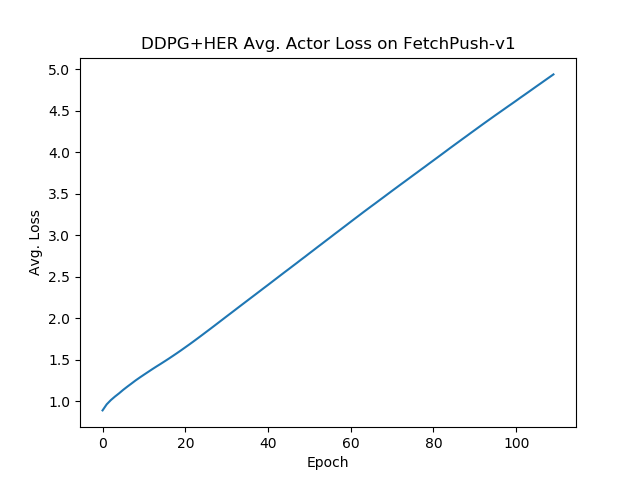
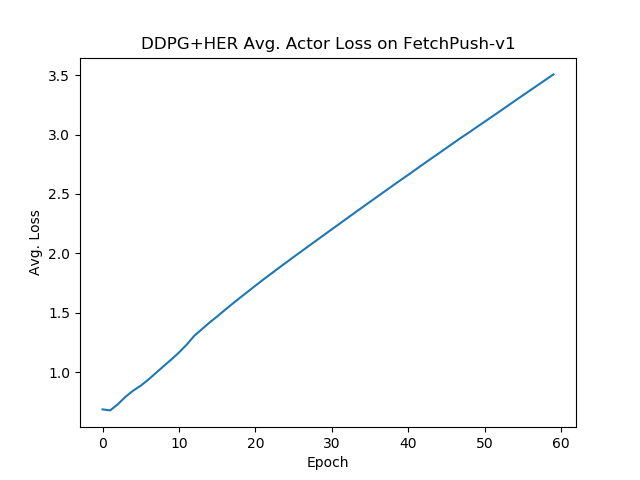
adding more results from ddpg_her

diff --git a/ddpg_her.swift b/ddpg_her.swift
@@ -154,14 +154,16 @@ class HERSampler {
       transitions[key] = transition_sample
     }
     let batch_uniform  = np.random.uniform(size: PythonObject(batch_size))
-    var her_indexes_sf: [Int] = []
-    for i in 0..<batch_size{
-      let val = batch_uniform[i]
-      if Float(val)! < self.future_p {
-        her_indexes_sf.append(i)
-      }
-    }
-    let her_indexes = np.array(her_indexes_sf)
+    let batch_uniform_filter: PythonObject = batch_uniform < self.future_p
+    let her_indexes = np.where(batch_uniform_filter)
+    // var her_indexes_sf: [Int] = []
+    // for i in 0..<batch_size{
+    //   let val = batch_uniform[i]
+    //   if Float(val)! < self.future_p {
+    //     her_indexes_sf.append(i)
+    //   }
+    // }
+    // let her_indexes = np.array(her_indexes_sf)
     let future_offset = (np.random.uniform(size: batch_size) * (timesteps - t_samples)).astype(np.int32)
     let future_t = (t_samples + 1 + future_offset)[her_indexes]
     let ag_numpy = episode_batch["achieved_goal"]!.makeNumpyArray()
@@ -451,8 +453,8 @@ class ActorCritic {
     actionSize: Int,
     goalSize: Int,
     maxAction: Tensor<Float>,
-    critic_lr: Float = 0.0001,
-    actor_lr: Float = 0.0001,
+    critic_lr: Float = 0.0009,
+    actor_lr: Float = 0.0009,
     gamma: Float = 0.99) {
       self.actor_network = actor
       self.critic_network = critic
@@ -690,7 +692,7 @@ func ddpg_her(actor_critic: ActorCritic, env: MultiGoalEnvironmentWrapper,
     for epoch in 0..<epochs {
       print("\nEPOCH: \(epoch)")
       if epoch == 0 || epoch == 25 || epoch == 50 || epoch == 75 {
-        let filename: String = "results/fetch_push_ddpg_her_3_ep" + String(epoch) + ".npy"
+        let filename: String = "results/fetch_push_ddpg_her_4_ep" + String(epoch) + ".npy"
         test_agent(agent: actor_critic, env: env, num_steps: 60, filename: filename)
       }
       var actor_losses: [Float] = []
@@ -795,10 +797,10 @@ print(env.max_timesteps)
 env.set_environment_seed(seed: 1001)
 let max_action: Tensor<Float> = Tensor<Float>(env.max_action_val)
 print(max_action)
-let actor_net: ActorNetwork = ActorNetwork(observationSize: env.state_size + env.goal_size, actionSize: env.action_size, hiddenLayerSizes: [256, 256, 256], maximum_action:max_action)
-let actor_target: ActorNetwork = ActorNetwork(observationSize: env.state_size + env.goal_size, actionSize: env.action_size, hiddenLayerSizes: [256, 256, 256], maximum_action:max_action)
-let critic_net: CriticNetwork = CriticNetwork(state_size: env.state_size + env.goal_size,  action_size: env.action_size, hiddenLayerSizes: [256, 256, 256], outDimension: 1)
-let critic_target: CriticNetwork = CriticNetwork(state_size: env.state_size + env.goal_size, action_size: env.action_size, hiddenLayerSizes: [256, 256, 256], outDimension: 1)
+let actor_net: ActorNetwork = ActorNetwork(observationSize: env.state_size + env.goal_size, actionSize: env.action_size, hiddenLayerSizes: [400, 300, 200], maximum_action:max_action)
+let actor_target: ActorNetwork = ActorNetwork(observationSize: env.state_size + env.goal_size, actionSize: env.action_size, hiddenLayerSizes: [400, 300, 200], maximum_action:max_action)
+let critic_net: CriticNetwork = CriticNetwork(state_size: env.state_size + env.goal_size,  action_size: env.action_size, hiddenLayerSizes: [400, 300, 200], outDimension: 1)
+let critic_target: CriticNetwork = CriticNetwork(state_size: env.state_size + env.goal_size, action_size: env.action_size, hiddenLayerSizes: [400, 300, 200], outDimension: 1)
 let replay_buffer: HERReplayBuffer = HERReplayBuffer(max_timesteps: env.max_timesteps, max_buffer_size: 9000, state_size: env.state_size, goal_size: env.goal_size, action_size: env.action_size)
 
 
@@ -815,7 +817,7 @@ let(actor_losses, critic_losses, success_rates) = ddpg_her(actor_critic: actor_c
                                                            env: env,
                                                            epochs: 60,
                                                            episodes: 50,
-                                                           rollouts: 3,
+                                                           rollouts: 4,
                                                            stepsPerEpisode: env.max_timesteps,
                                                            update_steps: 50,
                                                            batchSize: 128,
@@ -826,27 +828,27 @@ plt.plot(success_rates)
 plt.title("DDPG+HER Success Rate on FetchPush-v1")
 plt.xlabel("Epoch")
 plt.ylabel("Eval. Success Rate")
-plt.savefig("results/rewards/fetch_push_success_ddpg_her_3.png")
+plt.savefig("results/rewards/fetch_push_success_ddpg_her_4.png")
 plt.clf()
 let success_rates_np = np.array(success_rates)
-np.save("results/rewards/fetch_push_success_ddpg_her.npy", success_rates_np)
+np.save("results/rewards/fetch_push_success_ddpg_her_4.npy", success_rates_np)
 
 
 plt.plot(actor_losses)
 plt.title("DDPG+HER Avg. Actor Loss on FetchPush-v1")
 plt.xlabel("Epoch")
 plt.ylabel("Avg. Loss")
-plt.savefig("results/losses/fetch_push_actor_loss_ddpg_her_3.png")
+plt.savefig("results/losses/fetch_push_actor_loss_ddpg_her_4.png")
 plt.clf()
 
 plt.plot(critic_losses)
 plt.title("DDPG+HER Avg. Critic Loss on FetchPush-v1")
 plt.xlabel("Epoch")
 plt.ylabel("Avg. Loss")
-plt.savefig("results/losses/fetch_push_critic_loss_ddpg_her_3.png")
+plt.savefig("results/losses/fetch_push_critic_loss_ddpg_her_4.png")
 plt.clf()
 
-test_agent(agent: actor_critic, env: env, num_steps: 60, filename: "results/fetch_push_ddpg_her_3.npy")
+test_agent(agent: actor_critic, env: env, num_steps: 60, filename: "results/fetch_push_ddpg_her_4.npy")
 
 
 

diff --git a/compare_algos.py b/compare_algos.py
@@ -8,7 +8,7 @@ def plot_reward_results(algo_1_arr, algo_2_arr, algo_1_name, algo_2_name, title=
     plt.figure()
     plt.plot(algo_1_arr, "-b", label=algo_1_name)
     plt.plot(algo_2_arr, "-r", label=algo_2_name)
-    figure_title = algo_1_name + " vs " + algo_2_name + " average rewards during training"
+    figure_title = algo_1_name + " vs " + algo_2_name + " " + title
     plt.title(figure_title)
     plt.xlabel("Episode")
     plt.ylabel("Reward")
@@ -30,8 +30,8 @@ def main():
     # algo_1_name = sys.argv[2]
     # algo_1_arr = np.load(algo_1_file)
     # plot_results(algo_1_arr, algo_1_name)
-    if len(sys.argv) < 5:
-        print("Usage: python compare_algos.py <algo 1 reward file> <algo 2 reward file> <algo 1 name> <algo 2 name>")
+    if len(sys.argv) < 6:
+        print("Usage: python compare_algos.py <algo 1 reward file> <algo 2 reward file> <algo 1 name> <algo 2 name> <title>")
         exit()
 
 
@@ -39,9 +39,11 @@ def main():
     algo_2_file = sys.argv[2]
     algo_1_name = sys.argv[3]
     algo_2_name = sys.argv[4]
+    title = sys.argv[5]
     algo_1_arr = np.load(algo_1_file)
     algo_2_arr = np.load(algo_2_file)
-    plot_reward_results(algo_1_arr, algo_2_arr, algo_1_name, algo_2_name)
+    algo_2_arr[13:] = 0.0
+    plot_reward_results(algo_1_arr, algo_2_arr, algo_1_name, algo_2_name, title=title)
 
 if __name__ == '__main__':
     main()
